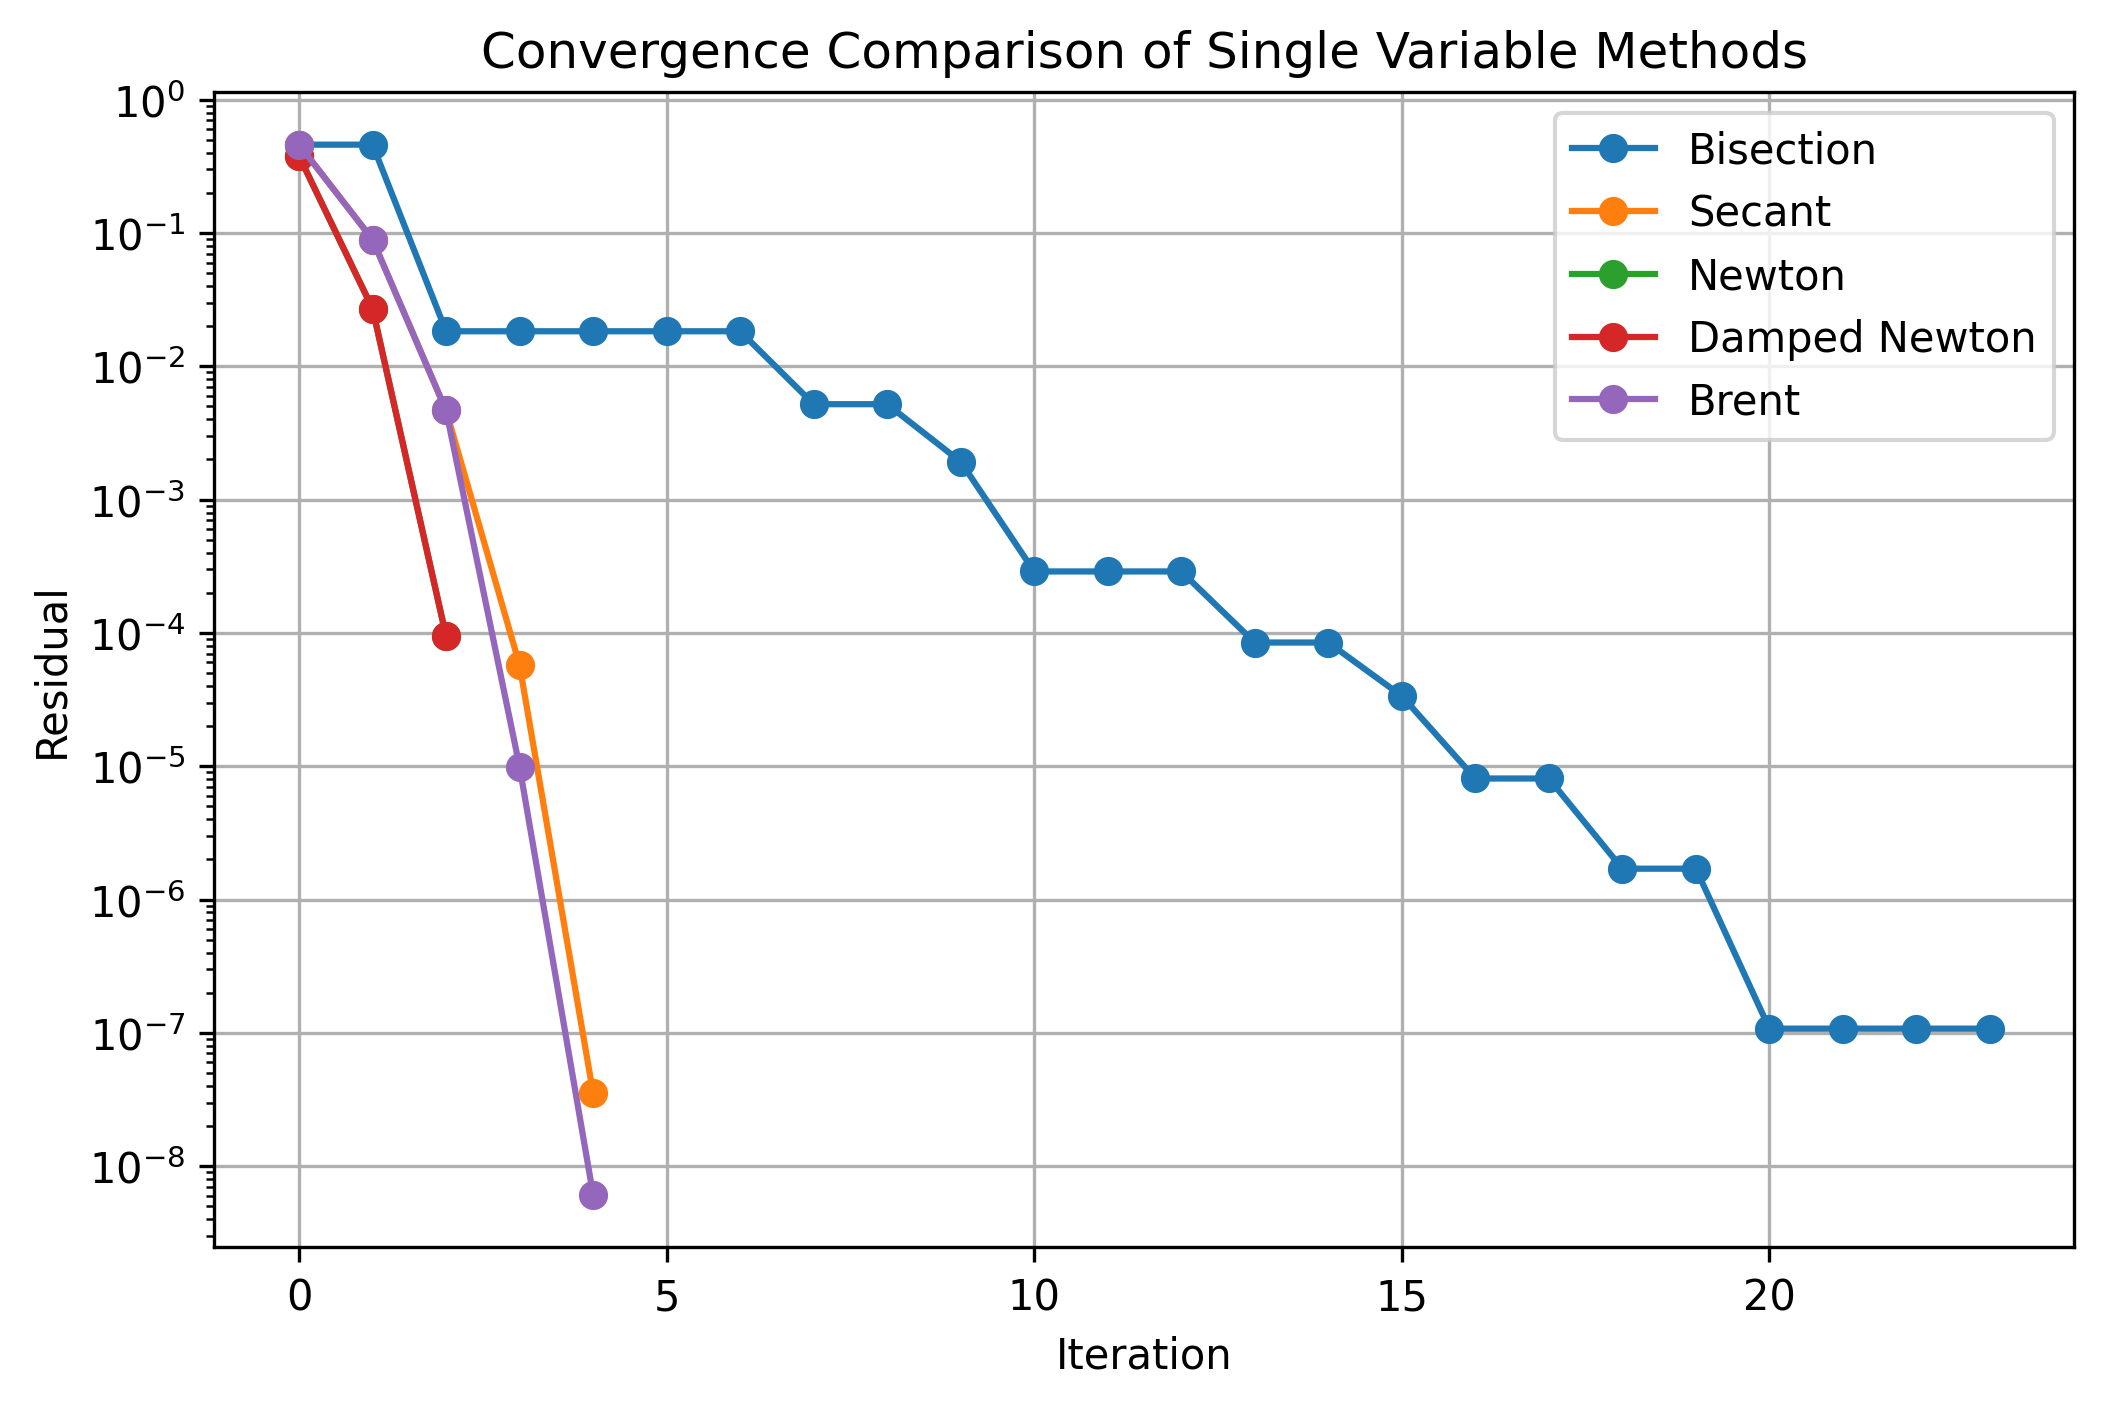
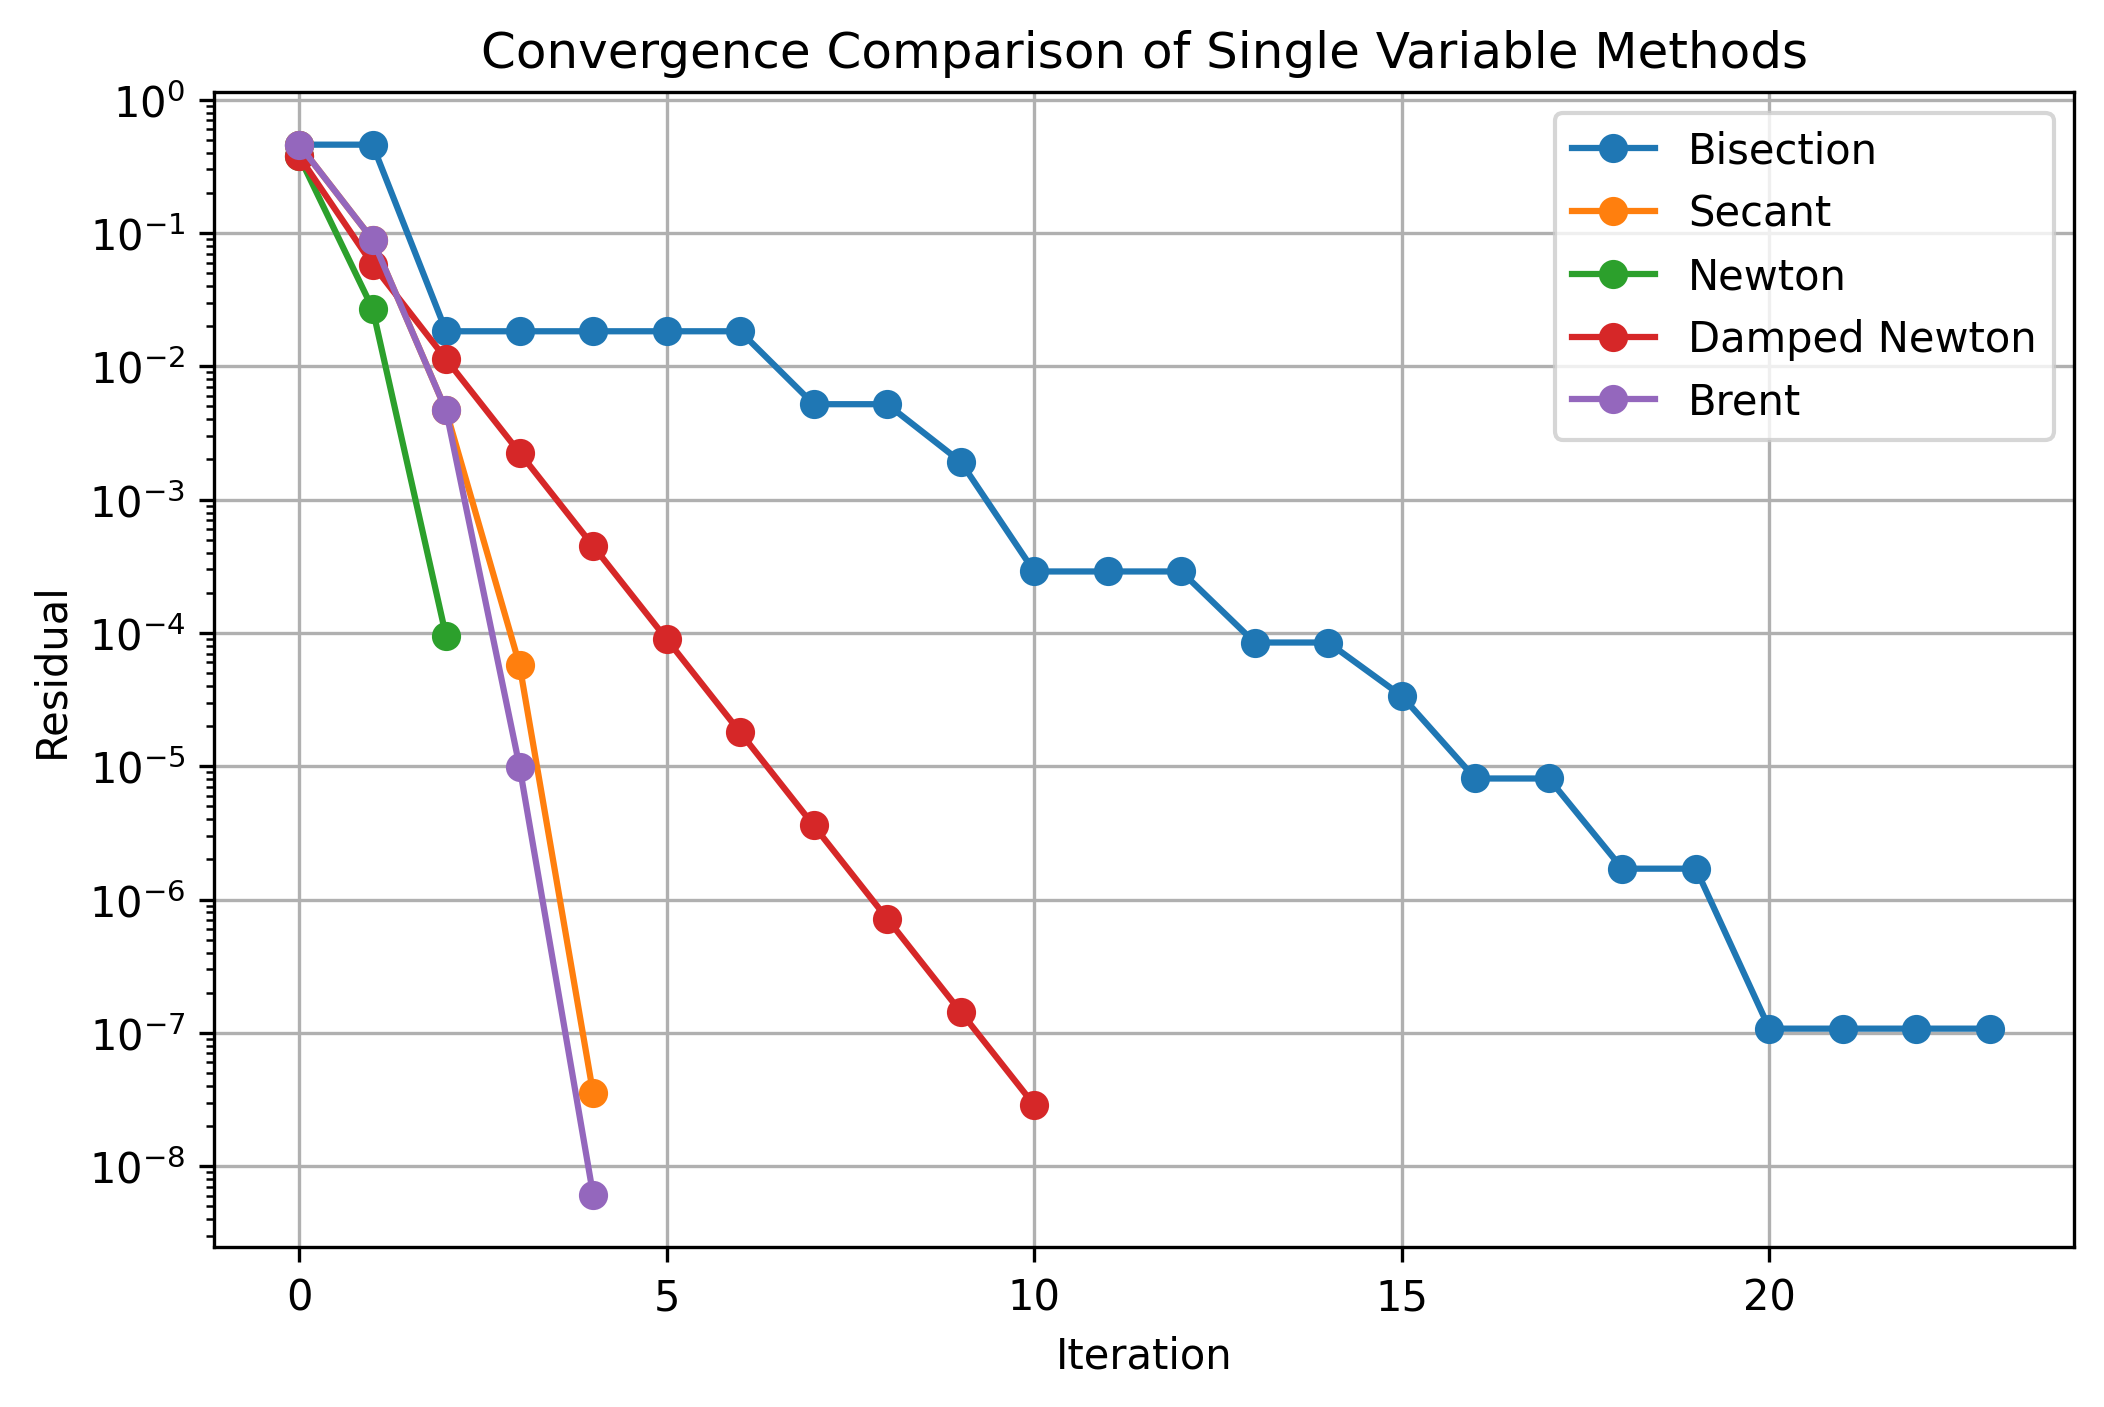
fix damped newton stepsize

diff --git a/src/single_variable/damped_newton.py b/src/single_variable/damped_newton.py
@@ -6,7 +6,7 @@ def damped_newton(
     x0: float,
     tol: float = 1e-8,
     max_iter: int = 100,
-    alpha: float = 1.0,
+    alpha: float = 0.8,
     backtracking: bool = False,
     min_alpha: float = 1e-4,
     rho: float = 0.5
